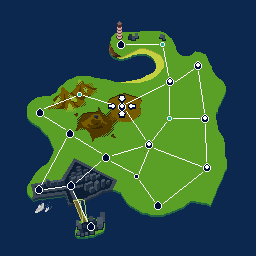
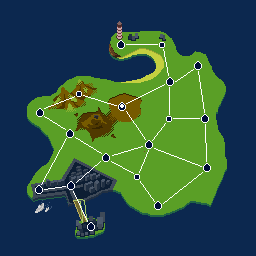
More changes...

diff --git a/js/map/map.js b/js/map/map.js
@@ -7,23 +7,24 @@ function Map(_image, _location){
         image: _image
     };
     this.cursor = {
-        location: new Vector((canvas.width/(Camera.scale+1))/2, (canvas.height/(Camera.scale+1))/2),
+        location: new Vector2((canvas.width/(Camera.scale+1))/2, (canvas.height/(Camera.scale+1))/2),
         image: Resources.images['res/img/ui/selector.png']
     };
+    this.test();
 }
 Map.prototype.move = function(_direction){
     switch(_direction){
         case 0:
-            this.cursor.location.y -= 3;
+            this.map.location.y+=2;
             break;
         case 1:
-            this.cursor.location.y += 3;
+            this.map.location.y-=2;
             break;
         case 2:
-            this.cursor.location.x -= 3;
+            this.map.location.x+=2;
             break;
         case 3:
-            this.cursor.location.x += 3;
+            this.map.location.x-=2;
             break;
     }
 }
@@ -31,14 +32,12 @@ Map.prototype.draw = function(){
     ctx.save();
     ctx.translate(this.map.location.x, this.map.location.y);
     ctx.drawImage(this.map.image, 0, 0, this.map.image.width, this.map.image.height);
-    
-    for (var i in this.nodes) this.nodes[i].draw();
+    for (var i in Node.prototype.List) Node.prototype.List[i].draw();
+    ctx.restore();
     
     ctx.save();
     ctx.translate(this.cursor.location.x, this.cursor.location.y);
-    ctx.drawImage(this.map.image, 0, 0, this.cursor.image.width, this.map.image.height);
-    ctx.restore();
-    
+    ctx.drawImage(this.cursor.image, -this.cursor.image.width/2, -this.cursor.image.height/2, this.cursor.image.width, this.cursor.image.height);
     ctx.restore();
 }
 Map.prototype.setRoute = function(_id){
@@ -48,10 +47,27 @@ Map.prototype.arrive = function(){
     this.current = (this.route.nodes[0]==this.current?this.route.nodes[1]:this.route.nodes[0]);
 }
 Map.prototype.test = function(){
-    Node.prototype.create(0, new Vector2(0,0), "Start", 0);
-    Node.prototype.create(1, new Vector2(10,5), "T1", 0);
-    Node.prototype.create(2, new Vector2(0,10), "T2", 0);
+    Node.prototype.create(0, new Vector2(118,102), "Start");
+    Node.prototype.create(1, new Vector2(75,90));
+    Node.prototype.create(2, new Vector2(36,108), "T2");
+    Node.prototype.create(3, new Vector2(66,129), "T3");
+    Node.prototype.create(4, new Vector2(35,185), "T4");
+    Node.prototype.create(5, new Vector2(67,181), "T5");
+    Node.prototype.create(6, new Vector2(87,222), "T6");
+    Node.prototype.create(7, new Vector2(102,153), "T7");
+    Node.prototype.create(8, new Vector2(145,140), "T8");
+    Node.prototype.create(9, new Vector2(133,173));
+    Node.prototype.create(10, new Vector2(154,201), "T10");
+    Node.prototype.create(11, new Vector2(203,163), "T11");
+    Node.prototype.create(12, new Vector2(165,115));
+    Node.prototype.create(13, new Vector2(201,114), "T13");
+    Node.prototype.create(14, new Vector2(166,77), "T14");
+    Node.prototype.create(15, new Vector2(194,61), "T15");
+    Node.prototype.create(16, new Vector2(158,41));
+    Node.prototype.create(16, new Vector2(117,40), "T17");
+    /*
     Route.prototype.create(Node.prototype.List[0],Node.prototype.List[1]);
     Route.prototype.create(Node.prototype.List[1],Node.prototype.List[2]);
     Route.prototype.create(Node.prototype.List[2],Node.prototype.List[0]);
+    */
 }

diff --git a/js/screen/screenMap.js b/js/screen/screenMap.js
@@ -9,9 +9,17 @@ ScreenMap.prototype.init = function() {
     this.keyQueue = new Array(10);
     this.image = Resources.images['res/img/ui/map.png'];
     this.map = new Map(this.image, new Vector2(0,0));
+    this.keys = new Array(0);
 }
 
 ScreenMap.prototype.update = function() {
+    if (this.mode){
+        if (this.keys[87] || this.keys[38]) this.map.move(0);
+        if (this.keys[83] || this.keys[40]) this.map.move(1);
+        if (this.keys[65] || this.keys[37]) this.map.move(2);
+        if (this.keys[68] || this.keys[39]) this.map.move(3);
+    }
+    
     var secret = [65,66,39,37,39,37,40,40,38,38];
     for (var i=0;i<10;i++){
         if (this.keyQueue[i] != secret[i]) return;
@@ -39,12 +47,13 @@ ScreenMap.prototype.draw = function() {
 
 ScreenMap.prototype.keyDown = function(e) {
     var keyCode = e.keyCode;
+    this.keys[keyCode] = true;
     console.log("Key code: "+e.keyCode);
     this.keyQueue.unshift(e.keyCode);
     this.keyQueue.pop();
     if(keyCode == 32) {
+        var option = this.select.confirm();
         if (!this.mode){
-            var option = this.select.confirm();
             switch(option.index){
                 case 0:
                     ScreenHandler.open(new ScreenMode());
@@ -52,11 +61,9 @@ ScreenMap.prototype.keyDown = function(e) {
                 case 1:
 
                     break;
-                case 2:
-                    this.mode = true;
-                    break;
             }
         }
+        if (option.index == 2) this.mode = !this.mode;
     }
 	
 	if(keyCode == 87 || keyCode == 38) {
@@ -66,19 +73,14 @@ ScreenMap.prototype.keyDown = function(e) {
 	}
 	
 	if(keyCode == 65 || keyCode == 37){
-        if (!this.mode) this.select.goUp();
-        else{
-            
-        }   
+        if (!this.mode) this.select.goUp(); 
     }
 	if(keyCode == 68 || keyCode == 39){
-		if (!this.mode) this.select.goDown();
-        else{
-            
-        }
+        if (!this.mode) this.select.goDown();
     }
 }
 
 ScreenMap.prototype.keyUp = function(e) {
-    
+    var keyCode = e.keyCode;
+    this.keys[keyCode] = false;
 }

diff --git a/js/map/node.js b/js/map/node.js
@@ -3,7 +3,9 @@ function Node(_id, _loc, _name, _demand){
     this.location = _loc;
     this.name = _name;
     this.demand = _demand;
+    this.discovered = true;
     this.routes = new Array(0);
+    this.image = Resources.images['res/img/ui/node.png'];
 }
 Node.prototype.List = new Array();
 Node.prototype.create = function(_id, _loc, _name, _demand){
@@ -11,6 +13,7 @@ Node.prototype.create = function(_id, _loc, _name, _demand){
 }
 Node.prototype.draw = function(){
     ctx.save();
-    //Draw some nodes...
+    ctx.translate(this.location.x, this.location.y);
+    ctx.drawImage(this.image, 8*this.discovered, (this.name==undefined)*9, 8, 9, 0, 0, 8, 9);
     ctx.restore();
 }

diff --git a/js/main.js b/js/main.js
@@ -30,7 +30,7 @@ function onResourcesLoaded() {
         }
     };
 	ScreenHandler.open(cont);
-	ScreenHandler.open(new ScreenGame(new GameModeTutorial()));
+	//ScreenHandler.open(new ScreenGame(new GameModeTutorial()));
 	
 	tick();
 }

diff --git a/js/map/line.js b/js/map/line.js
@@ -1,0 +1,3 @@
+function Line(_A, _B){
+    
+}
